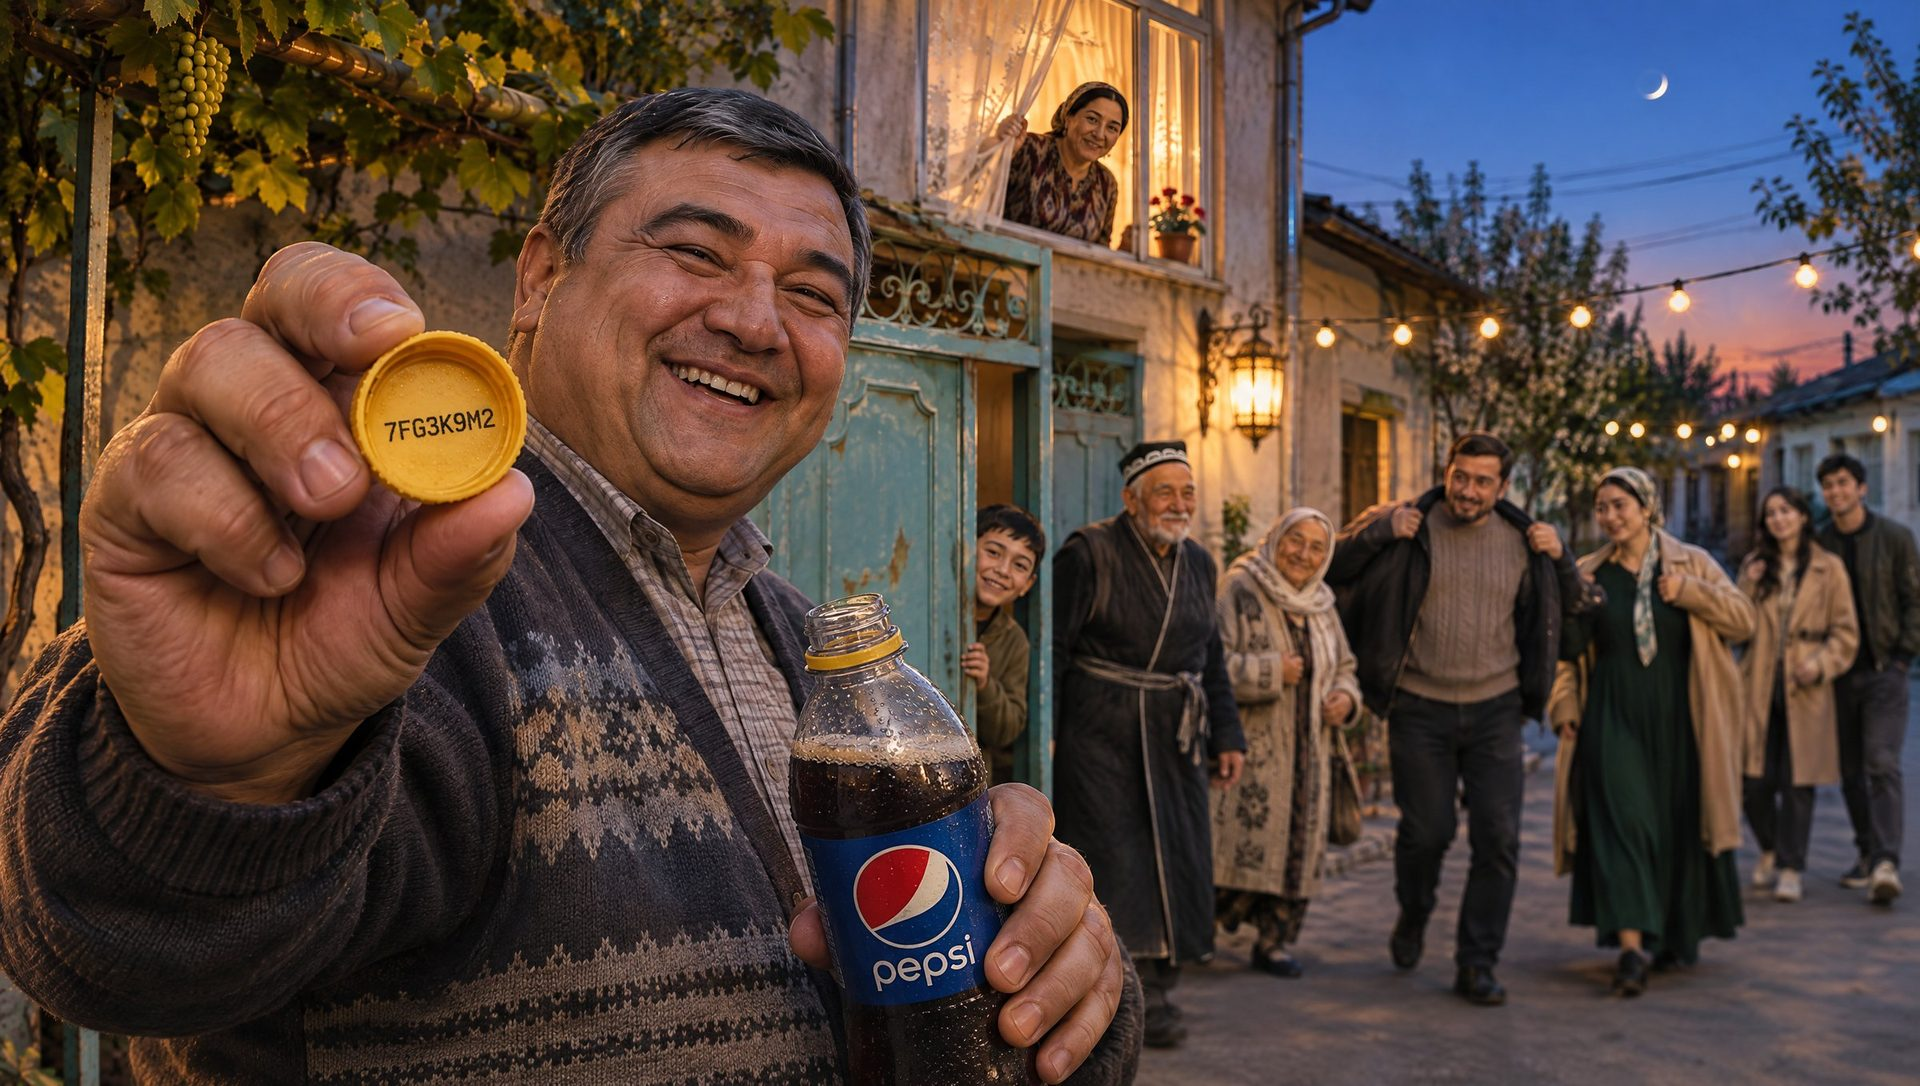
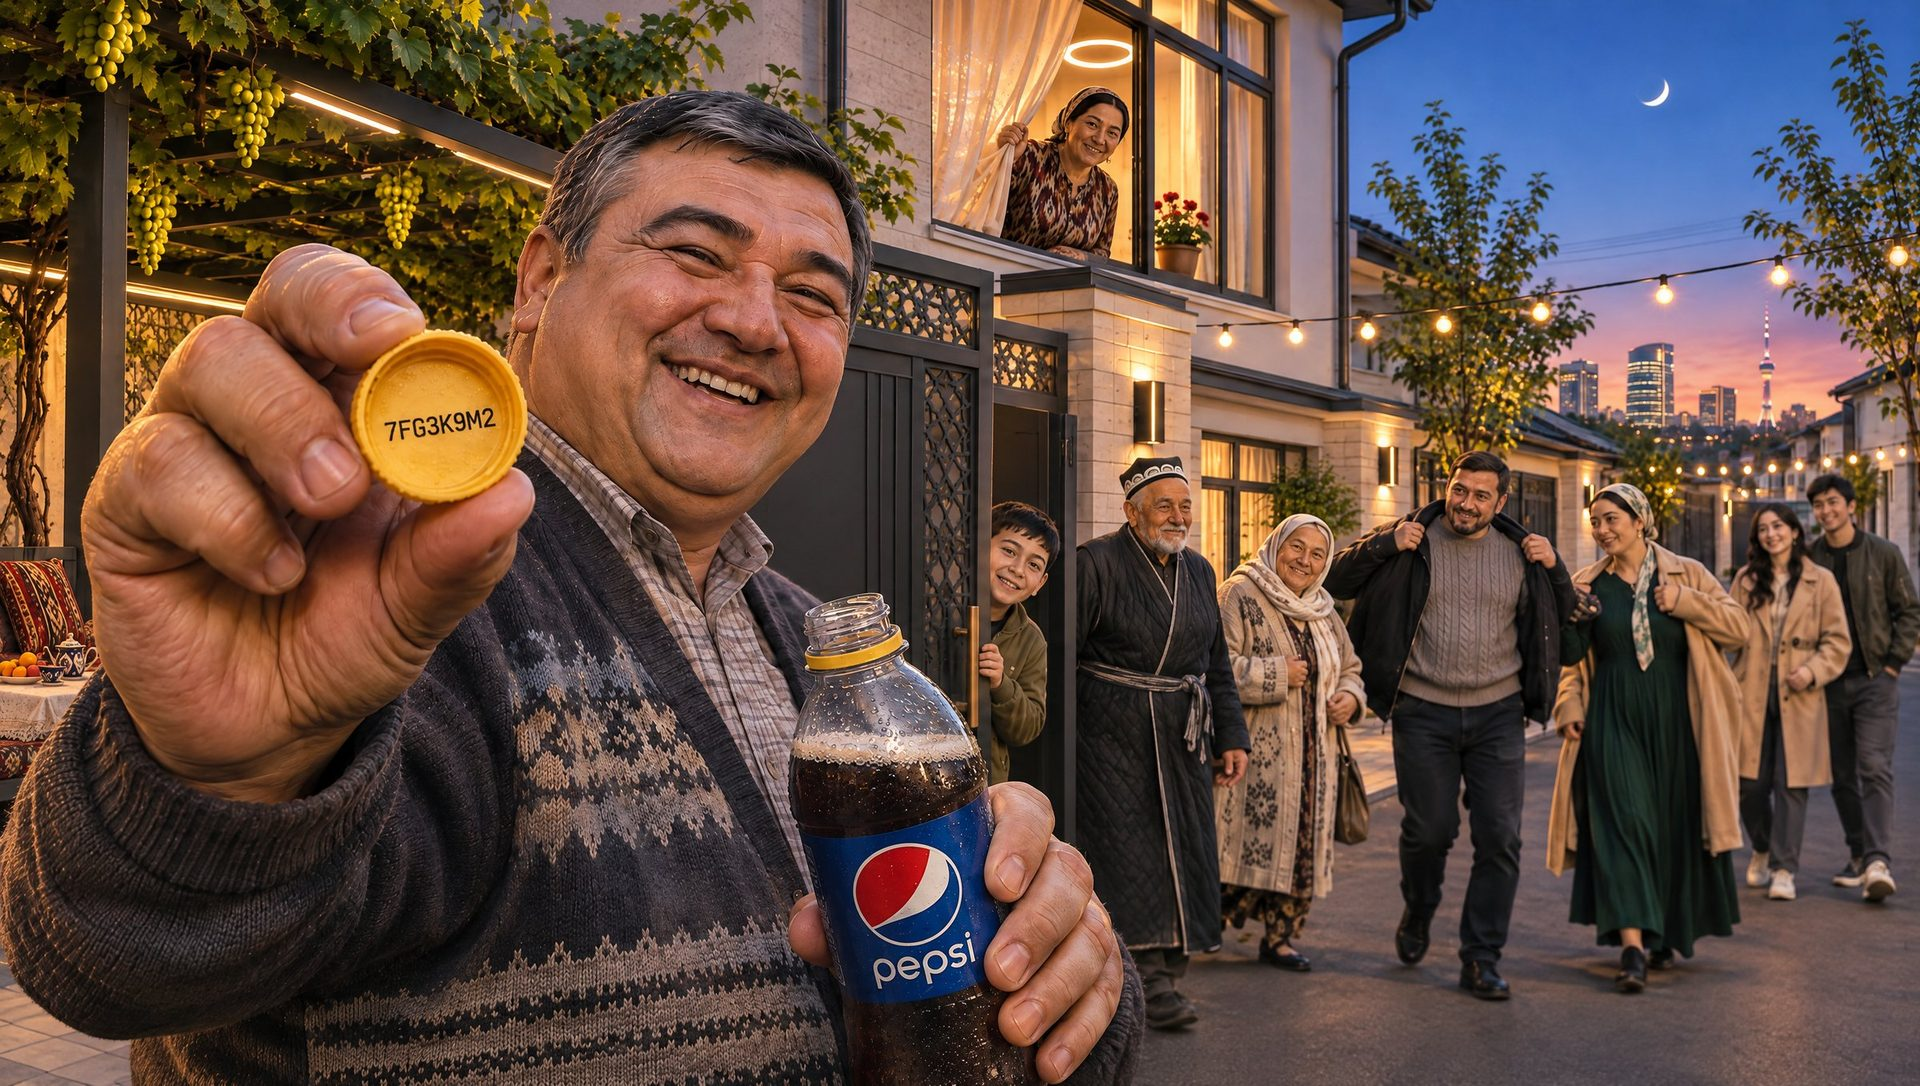
V3: modern Tashkent mahalla, younger crew
Claude-Session: https://claude.ai/code/session_01EvTCm4nphBi3UivqpcNxnB

diff --git a/pepsi-ramazon/v3/index.html b/pepsi-ramazon/v3/index.html
@@ -385,7 +385,7 @@ section.night { background: #0A1230; }
 
 <section id="camera" class="night" data-transition="fade">
 <img decoding="async" class="rise" style="position:absolute; left:676px; top:262px; width:1180px; height:664px; object-fit:cover; border-radius:18px; --i:1" src="../img/v3_v3_diorama.jpg" alt="Миниатюра махалли: все события ролика происходят одновременно">
-<svg aria-label="Маршрут камеры одним дублем по махалле: дверь, барабаны, окно, QR-код, призы, подарок соседке, фары Kia, хозяин выносит Pepsi, стол во дворе" style="position:absolute; left:0; top:0; width:1920px; height:1080px" width="1920" height="1080" viewBox="0 0 1920 1080" xmlns="http://www.w3.org/2000/svg"><path d="M1084 578 C1123 599 1315 734 1317 705 C1319 677 1168 397 1097 407 C1027 417 872 699 895 767 C919 835 1134 853 1238 815 C1342 777 1437 551 1519 539 C1601 526 1782 724 1730 740 C1677 757 1269 675 1203 640 C1137 604 1313 544 1334 525" fill="none" stroke="#0A1230" stroke-opacity=".55" stroke-width="14" stroke-linecap="round"/><path class="trace" pathLength="1" d="M1084 578 C1123 599 1315 734 1317 705 C1319 677 1168 397 1097 407 C1027 417 872 699 895 767 C919 835 1134 853 1238 815 C1342 777 1437 551 1519 539 C1601 526 1782 724 1730 740 C1677 757 1269 675 1203 640 C1137 604 1313 544 1334 525" fill="none" stroke="#FFC62E" stroke-width="6" stroke-linecap="round"/><g class="pin" style="--i:0"><circle cx="1084" cy="578" r="24" fill="#0A1230" stroke="#FFC62E" stroke-width="4"/><text x="1084" y="587" text-anchor="middle" font-family="Unbounded, Verdana, sans-serif" font-size="24" font-weight="800" fill="#FFC62E">1</text></g><g class="pin" style="--i:1"><circle cx="1317" cy="705" r="24" fill="#0A1230" stroke="#FFC62E" stroke-width="4"/><text x="1317" y="714" text-anchor="middle" font-family="Unbounded, Verdana, sans-serif" font-size="24" font-weight="800" fill="#FFC62E">2</text></g><g class="pin" style="--i:2"><circle cx="1097" cy="407" r="24" fill="#0A1230" stroke="#FFC62E" stroke-width="4"/><text x="1097" y="416" text-anchor="middle" font-family="Unbounded, Verdana, sans-serif" font-size="24" font-weight="800" fill="#FFC62E">3</text></g><g class="pin" style="--i:3"><circle cx="895" cy="767" r="24" fill="#0A1230" stroke="#FFC62E" stroke-width="4"/><text x="895" y="776" text-anchor="middle" font-family="Unbounded, Verdana, sans-serif" font-size="24" font-weight="800" fill="#FFC62E">4</text></g><g class="pin" style="--i:4"><circle cx="1238" cy="815" r="24" fill="#0A1230" stroke="#FFC62E" stroke-width="4"/><text x="1238" y="824" text-anchor="middle" font-family="Unbounded, Verdana, sans-serif" font-size="24" font-weight="800" fill="#FFC62E">5</text></g><g class="pin" style="--i:5"><circle cx="1519" cy="539" r="24" fill="#0A1230" stroke="#FFC62E" stroke-width="4"/><text x="1519" y="548" text-anchor="middle" font-family="Unbounded, Verdana, sans-serif" font-size="24" font-weight="800" fill="#FFC62E">6</text></g><g class="pin" style="--i:6"><circle cx="1730" cy="740" r="24" fill="#0A1230" stroke="#FFC62E" stroke-width="4"/><text x="1730" y="749" text-anchor="middle" font-family="Unbounded, Verdana, sans-serif" font-size="24" font-weight="800" fill="#FFC62E">7</text></g><g class="pin" style="--i:7"><circle cx="1203" cy="640" r="24" fill="#0A1230" stroke="#FFC62E" stroke-width="4"/><text x="1203" y="649" text-anchor="middle" font-family="Unbounded, Verdana, sans-serif" font-size="24" font-weight="800" fill="#FFC62E">8</text></g><g class="pin" style="--i:8"><circle cx="1334" cy="525" r="24" fill="#0A1230" stroke="#FFC62E" stroke-width="4"/><text x="1334" y="534" text-anchor="middle" font-family="Unbounded, Verdana, sans-serif" font-size="24" font-weight="800" fill="#FFC62E">9</text></g><circle r="16" fill="#FF5A4E" stroke="#FBFBF8" stroke-width="4"><animateMotion dur="9s" begin="0s" fill="freeze" path="M1084 578 C1123 599 1315 734 1317 705 C1319 677 1168 397 1097 407 C1027 417 872 699 895 767 C919 835 1134 853 1238 815 C1342 777 1437 551 1519 539 C1601 526 1782 724 1730 740 C1677 757 1269 675 1203 640 C1137 604 1313 544 1334 525"/></circle></svg>
+<svg aria-label="Маршрут камеры одним дублем по махалле: дверь, барабаны, окно, QR-код, призы, подарок соседке, фары Kia, хозяин выносит Pepsi, стол во дворе" style="position:absolute; left:0; top:0; width:1920px; height:1080px" width="1920" height="1080" viewBox="0 0 1920 1080" xmlns="http://www.w3.org/2000/svg"><path d="M1084 578 C1123 599 1315 734 1317 705 C1319 677 1168 397 1097 407 C1027 417 872 699 895 767 C919 835 1138 853 1238 815 C1338 777 1415 551 1497 539 C1579 526 1779 724 1730 740 C1681 757 1269 675 1203 640 C1137 604 1313 544 1334 525" fill="none" stroke="#0A1230" stroke-opacity=".55" stroke-width="14" stroke-linecap="round"/><path class="trace" pathLength="1" d="M1084 578 C1123 599 1315 734 1317 705 C1319 677 1168 397 1097 407 C1027 417 872 699 895 767 C919 835 1138 853 1238 815 C1338 777 1415 551 1497 539 C1579 526 1779 724 1730 740 C1681 757 1269 675 1203 640 C1137 604 1313 544 1334 525" fill="none" stroke="#FFC62E" stroke-width="6" stroke-linecap="round"/><g class="pin" style="--i:0"><circle cx="1084" cy="578" r="24" fill="#0A1230" stroke="#FFC62E" stroke-width="4"/><text x="1084" y="587" text-anchor="middle" font-family="Unbounded, Verdana, sans-serif" font-size="24" font-weight="800" fill="#FFC62E">1</text></g><g class="pin" style="--i:1"><circle cx="1317" cy="705" r="24" fill="#0A1230" stroke="#FFC62E" stroke-width="4"/><text x="1317" y="714" text-anchor="middle" font-family="Unbounded, Verdana, sans-serif" font-size="24" font-weight="800" fill="#FFC62E">2</text></g><g class="pin" style="--i:2"><circle cx="1097" cy="407" r="24" fill="#0A1230" stroke="#FFC62E" stroke-width="4"/><text x="1097" y="416" text-anchor="middle" font-family="Unbounded, Verdana, sans-serif" font-size="24" font-weight="800" fill="#FFC62E">3</text></g><g class="pin" style="--i:3"><circle cx="895" cy="767" r="24" fill="#0A1230" stroke="#FFC62E" stroke-width="4"/><text x="895" y="776" text-anchor="middle" font-family="Unbounded, Verdana, sans-serif" font-size="24" font-weight="800" fill="#FFC62E">4</text></g><g class="pin" style="--i:4"><circle cx="1238" cy="815" r="24" fill="#0A1230" stroke="#FFC62E" stroke-width="4"/><text x="1238" y="824" text-anchor="middle" font-family="Unbounded, Verdana, sans-serif" font-size="24" font-weight="800" fill="#FFC62E">5</text></g><g class="pin" style="--i:5"><circle cx="1497" cy="539" r="24" fill="#0A1230" stroke="#FFC62E" stroke-width="4"/><text x="1497" y="548" text-anchor="middle" font-family="Unbounded, Verdana, sans-serif" font-size="24" font-weight="800" fill="#FFC62E">6</text></g><g class="pin" style="--i:6"><circle cx="1730" cy="740" r="24" fill="#0A1230" stroke="#FFC62E" stroke-width="4"/><text x="1730" y="749" text-anchor="middle" font-family="Unbounded, Verdana, sans-serif" font-size="24" font-weight="800" fill="#FFC62E">7</text></g><g class="pin" style="--i:7"><circle cx="1203" cy="640" r="24" fill="#0A1230" stroke="#FFC62E" stroke-width="4"/><text x="1203" y="649" text-anchor="middle" font-family="Unbounded, Verdana, sans-serif" font-size="24" font-weight="800" fill="#FFC62E">8</text></g><g class="pin" style="--i:8"><circle cx="1334" cy="525" r="24" fill="#0A1230" stroke="#FFC62E" stroke-width="4"/><text x="1334" y="534" text-anchor="middle" font-family="Unbounded, Verdana, sans-serif" font-size="24" font-weight="800" fill="#FFC62E">9</text></g><circle r="16" fill="#FF5A4E" stroke="#FBFBF8" stroke-width="4"><animateMotion dur="9s" begin="0s" fill="freeze" path="M1084 578 C1123 599 1315 734 1317 705 C1319 677 1168 397 1097 407 C1027 417 872 699 895 767 C919 835 1138 853 1238 815 C1338 777 1415 551 1497 539 C1579 526 1779 724 1730 740 C1681 757 1269 675 1203 640 C1137 604 1313 544 1334 525"/></circle></svg>
 <p class="eyebrow rise" style="--i:0">Как снимаем улицу</p>
 <div class="mask"><h2 class="up" style="--i:1">КОНТРОЛИРУЕМЫЙ КИПИШ</h2></div>
 <div style="width:500px; margin-top:12px">
@@ -437,9 +437,9 @@ section.night { background: #0A1230; }
 <div class="mask"><h2 class="up" style="--i:1">ПЛОЩАДКА МЕЖДУ ДОМАМИ</h2></div>
 <div style="display:flex; gap:48px; margin-top:36px; align-items:flex-start">
 <img decoding="async" class="rise" style="width:1040px; height:585px; object-fit:cover; border-radius:16px; --i:2" src="../img/v3_v3_loc.jpg" alt="Площадка между домами махалли на синем часу">
-<div style="width:576px; display:flex; flex-direction:column; gap:22px">
-<img decoding="async" class="rise" style="width:576px; height:324px; object-fit:cover; border-radius:14px; --i:3" src="../img/v3_v3_lantern.gif" alt="Фонарь у калитки загорается, мерцают гирлянды">
-<div class="rise" style="--i:3"><p class="label">Обычная махалля</p><p style="font-size:26px; margin-top:6px; color:#E6EAF7">Частные дома, крашеные калитки, виноградник, топчан. Не богато — по-настоящему.</p></div><div class="rise" style="--i:4"><p class="label">Площадка между домами</p><p style="font-size:26px; margin-top:6px; color:#E6EAF7">Сцена без сцены: сюда выходят все.</p></div><div class="rise" style="--i:5"><p class="label">Свет</p><p style="font-size:26px; margin-top:6px; color:#E6EAF7">Синий час, фонари у калиток и гирлянды, которые развесили соседи.</p></div>
+<div style="width:576px; display:flex; flex-direction:column; gap:18px">
+<img decoding="async" class="rise" style="width:576px; height:270px; object-fit:cover; border-radius:14px; --i:3" src="../img/v3_v3_lantern.gif" alt="Фонарь у калитки загорается, мерцают гирлянды">
+<div class="rise" style="--i:3"><p class="label">Современная ташкентская махалля</p><p style="font-size:26px; margin-top:6px; color:#E6EAF7">Дома с современными фасадами, металлические ворота, подсветка, пергола с виноградом. Город, без роскоши.</p></div><div class="rise" style="--i:4"><p class="label">Площадка между домами</p><p style="font-size:26px; margin-top:6px; color:#E6EAF7">Сцена без сцены: сюда выходят все.</p></div><div class="rise" style="--i:5"><p class="label">Свет</p><p style="font-size:26px; margin-top:6px; color:#E6EAF7">Синий час, светильники у ворот, гирлянды соседей и огни Ташкента на горизонте.</p></div>
 </div>
 </div>
 <aside>Одна площадка — все события. Удобно для пролёта одним дублем.</aside>
@@ -581,7 +581,7 @@ section.night { background: #0A1230; }
 <img decoding="async" class="bg kb" src="../img/v3_v3_kia.jpg" alt="За спинами ребят загораются фары Kia Sonet Prime, соседи оборачиваются на свет">
 <div class="scrim-b scrim-band" style="top:560px; height:520px"></div>
 <img decoding="async" class="grain" src="../img/v3_v3_grain.jpg" alt="">
-<div class="flare" style="left:1032px; top:331px"></div><div class="flare" style="left:1154px; top:331px"></div><div class="streak" style="left:523px; top:508px"></div>
+<div class="flare" style="left:985px; top:420px"></div><div class="flare" style="left:1180px; top:420px"></div><div class="streak" style="left:512px; top:598px"></div>
 <p class="hud rise" style="--i:0; left:1272px; text-align:right"><b>●</b> REC · один дубль</p>
 <div class="cols"><div class="lc"><p class="eyebrow rise" style="--i:0">Сцена 04</p><div class="mask"><h2 class="up md" style="--i:1">ПРИЗЫ</h2></div><p class="lyric rise" style="--i:2; margin-top:16px">Kia Sonet Prime ham bor,<br>Sakkizta mashina bor!</p></div><div class="rc"><p class="desc sm rise" style="--i:3; color:#E6EAF7;">За спинами ребят загораются фары Kia Sonet Prime. Машина стоит у края площадки. Соседи оборачиваются на свет.</p></div></div>
 <div class="tl t5"><p>01 Ифтар</p><p>02 У двери</p><p>03 Махалля</p><p class="on">04 Призы</p><p>05 Во дворе</p></div>
